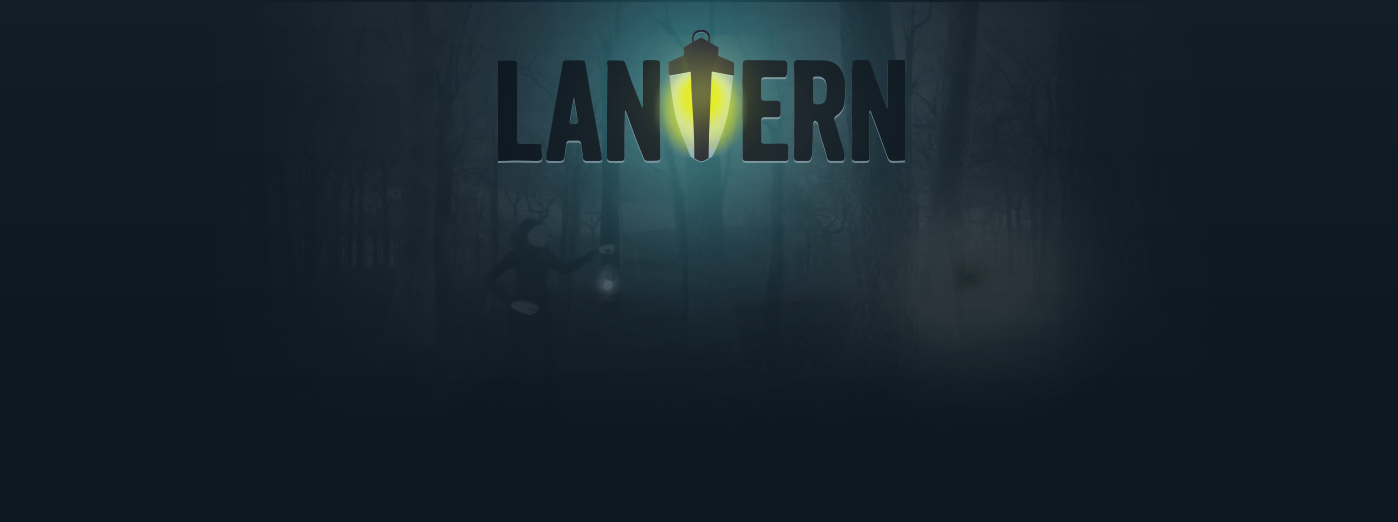
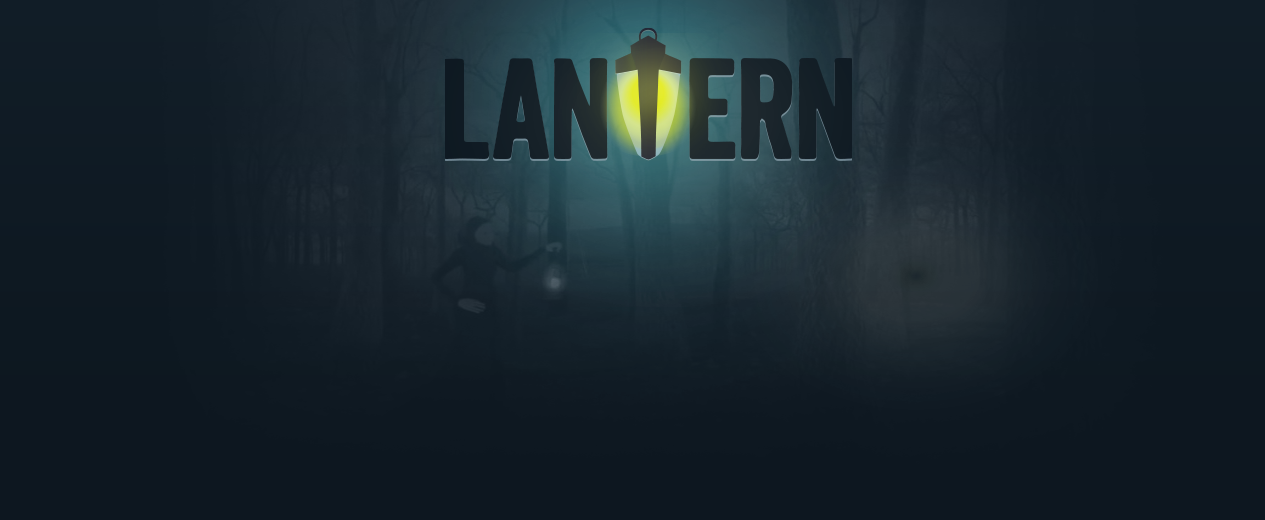
responsive changes

Changed region(s): [[0.3391, 0.0308, 0.6783, 0.3385], [0.5858, 0.0, 0.6166, 0.0308]]

diff --git a/app/styles/_top.scss b/app/styles/_top.scss
@@ -15,7 +15,7 @@ div.outer-container {
         height: 60px;
         top: 0;
         z-index: 1005;
-        @media screen and (max-width: 720px) {
+        @media screen and (max-width: 770px) {
             padding-bottom: 0px;
             position: relative;
         }
@@ -275,20 +275,16 @@ a.nav-toggle:before{color:#fff;font:400 28px/55px "responsivenav";text-transform
                                                         position: absolute;
                                                         div.end-censorship {
 
-                                                            font-size: 16px;
+                                                            font-size: 60px;
                                                             font-family: LBL;
                                                             color: rgb( 255, 255, 255 );
                                                             text-align: center;
-                                                            -moz-transform: matrix( 3.6355342662767,0,0,3.67352469523935,0,0);
-                                                            -webkit-transform: matrix( 3.6355342662767,0,0,3.67352469523935,0,0);
-                                                            -ms-transform: matrix( 3.6355342662767,0,0,3.67352469523935,0,0);
                                                             position: relative;
                                                             margin-left: auto;
                                                             margin-right: auto;
-                                                            top: 245px;
+                                                            width: 100%;
+                                                            top: 225px;
                                                             max-width: 100%;
-                                                            z-index: 38;
-
                                                             @media screen and (max-width: $break-small) {
                                                                 width: auto;
                                                                 -webkit-transform: none;
@@ -307,15 +303,19 @@ a.nav-toggle:before{color:#fff;font:400 28px/55px "responsivenav";text-transform
                                                             -webkit-transform: matrix( 0.7386542256302,0,0,0.73825770238054,0,0);
                                                             -ms-transform: matrix( 0.7386542256302,0,0,0.73825770238054,0,0);
                                                             position: relative;
-                                                            top: 275px;
+                                                            top: 235px;
                                                             margin-left: auto;
                                                             margin-right: auto;
                                                             width: auto;
                                                             z-index: 39;
+                                                            @media screen and (max-width: $break-small) {
+                                                                top: 225px;
+                                                            }
+
                                                         }
 
                                                         div.download-section {
-                                                            top: 315px;
+                                                            top: 270px;
                                                             margin-left: auto;
                                                             margin-right: auto;
                                                             position: relative;
@@ -401,7 +401,7 @@ a.nav-toggle:before{color:#fff;font:400 28px/55px "responsivenav";text-transform
                                                             color: rgb( 104, 139, 166 );
                                                             text-align: center;
                                                             position: relative;
-                                                            top: 340px;
+                                                            top: 300px;
                                                             margin-left: auto;
                                                             margin-right: auto;
                                                             z-index: 32;
